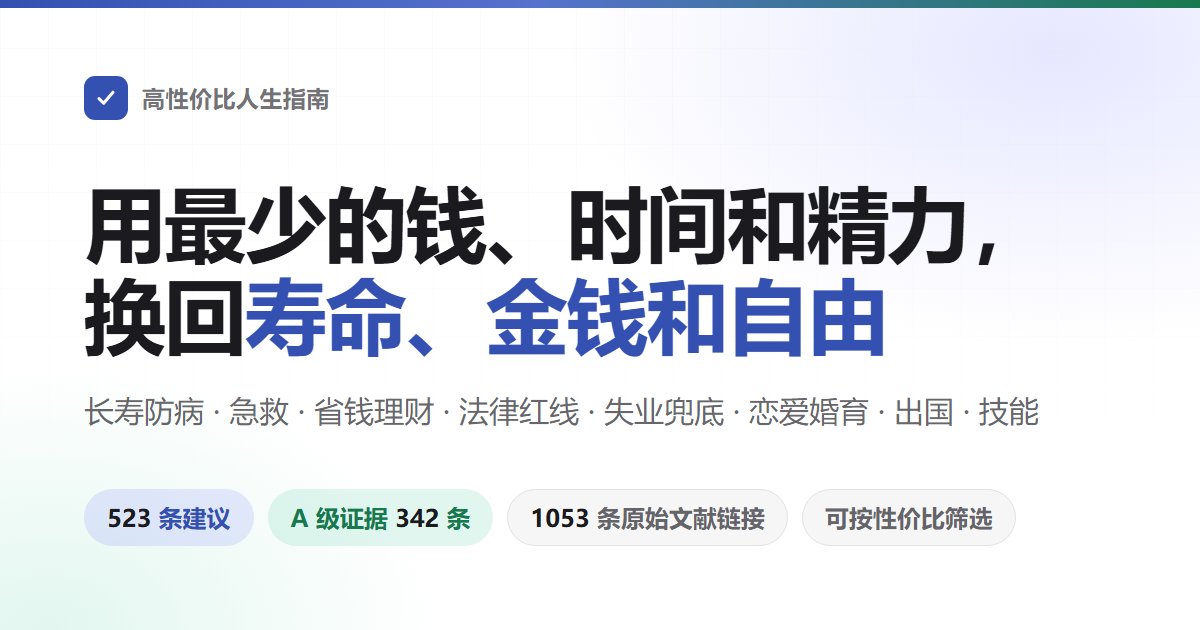
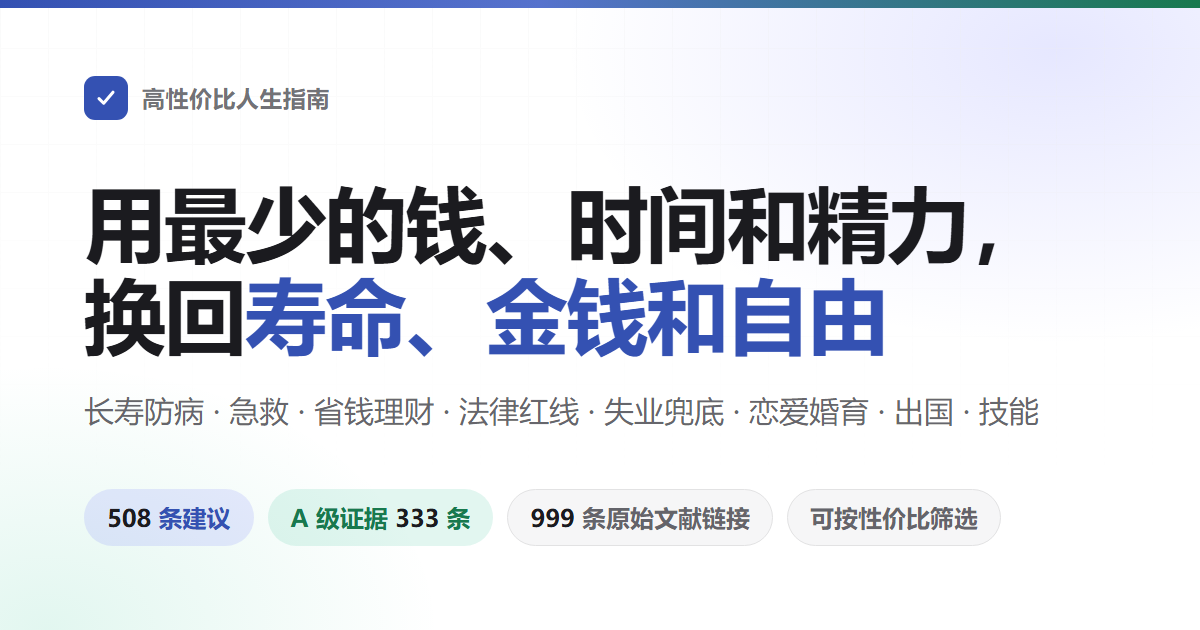
新增第 32 节「出国留学」10 条：认证院校名单、美国 2026-09-15 起固定入境期限与 30 天离境窗口、美加英澳打工时数、全日制在读与打工资格、地址报备、留学预警、OSHC、医疗附加费、留服认证时限、加强审查名单

diff --git a/index.html b/index.html
@@ -4,7 +4,7 @@
 <meta charset="utf-8">
 <meta name="viewport" content="width=device-width, initial-scale=1">
 <title>高性价比人生指南 · 用最少的钱、时间和精力换回寿命、金钱和人身自由</title>
-<meta name="description" content="按性价比排序的人生指南：498 条建议，覆盖长寿防病、意外急救、省钱理财、防骗与法律红线、失业兜底、创业风险、恋爱婚育、出国与技能。每条写明成本、收益、证据等级和原始出处，可按钱、时间、毅力三个成本维度检索。">
+<meta name="description" content="按性价比排序的人生指南：508 条建议，覆盖长寿防病、意外急救、省钱理财、防骗与法律红线、失业兜底、创业风险、恋爱婚育、出国与技能。每条写明成本、收益、证据等级和原始出处，可按钱、时间、毅力三个成本维度检索。">
 <meta name="keywords" content="长寿,健康,循证,总死亡率,省钱,理财,防骗,急救,法律常识,失业救助,劳动仲裁,创业风险,性价比">
 <meta name="author" content="高性价比人生指南">
 <meta name="robots" content="index,follow,max-image-preview:large,max-snippet:-1">
@@ -17,18 +17,18 @@
 <meta property="og:locale" content="zh_CN">
 <meta property="og:url" content="https://eternity4719.github.io/HowToLiveBetter/">
 <meta property="og:title" content="高性价比人生指南">
-<meta property="og:description" content="按性价比排序的人生指南：498 条建议，覆盖长寿防病、意外急救、省钱理财、防骗与法律红线、失业兜底、创业风险、恋爱婚育、出国与技能。每条写明成本、收益、证据等级和原始出处，可按钱、时间、毅力三个成本维度检索。">
+<meta property="og:description" content="按性价比排序的人生指南：508 条建议，覆盖长寿防病、意外急救、省钱理财、防骗与法律红线、失业兜底、创业风险、恋爱婚育、出国与技能。每条写明成本、收益、证据等级和原始出处，可按钱、时间、毅力三个成本维度检索。">
 <meta property="og:image" content="https://eternity4719.github.io/HowToLiveBetter/og.png">
 <meta property="og:image:width" content="1200">
 <meta property="og:image:height" content="630">
 <meta name="twitter:card" content="summary_large_image">
 <meta name="twitter:title" content="高性价比人生指南">
-<meta name="twitter:description" content="按性价比排序的人生指南：498 条建议，覆盖长寿防病、意外急救、省钱理财、防骗与法律红线、失业兜底、创业风险、恋爱婚育、出国与技能。每条写明成本、收益、证据等级和原始出处，可按钱、时间、毅力三个成本维度检索。">
+<meta name="twitter:description" content="按性价比排序的人生指南：508 条建议，覆盖长寿防病、意外急救、省钱理财、防骗与法律红线、失业兜底、创业风险、恋爱婚育、出国与技能。每条写明成本、收益、证据等级和原始出处，可按钱、时间、毅力三个成本维度检索。">
 <meta name="twitter:image" content="https://eternity4719.github.io/HowToLiveBetter/og.png">
 <script type="application/ld+json">
 {"@context":"https://schema.org","@graph":[
-{"@type":"WebSite","@id":"https://eternity4719.github.io/HowToLiveBetter/#website","url":"https://eternity4719.github.io/HowToLiveBetter/","name":"高性价比人生指南","description":"按性价比排序的人生指南：498 条建议，覆盖长寿防病、意外急救、省钱理财、防骗与法律红线、失业兜底、创业风险、恋爱婚育、出国与技能。每条写明成本、收益、证据等级和原始出处，可按钱、时间、毅力三个成本维度检索。","inLanguage":"zh-CN","potentialAction":{"@type":"SearchAction","target":{"@type":"EntryPoint","urlTemplate":"https://eternity4719.github.io/HowToLiveBetter/?q={search_term_string}"},"query-input":"required name=search_term_string"}},
-{"@type":"Book","@id":"https://eternity4719.github.io/HowToLiveBetter/#book","name":"高性价比人生指南","url":"https://eternity4719.github.io/HowToLiveBetter/","inLanguage":"zh-CN","bookFormat":"https://schema.org/EBook","numberOfPages":498,"license":"https://unlicense.org/","abstract":"按性价比排序的人生指南：498 条建议，覆盖长寿防病、意外急救、省钱理财、防骗与法律红线、失业兜底、创业风险、恋爱婚育、出国与技能。每条写明成本、收益、证据等级和原始出处，可按钱、时间、毅力三个成本维度检索。","about":["健康","长寿","个人理财","急救","法律常识","消费者保护"],"isAccessibleForFree":true}
+{"@type":"WebSite","@id":"https://eternity4719.github.io/HowToLiveBetter/#website","url":"https://eternity4719.github.io/HowToLiveBetter/","name":"高性价比人生指南","description":"按性价比排序的人生指南：508 条建议，覆盖长寿防病、意外急救、省钱理财、防骗与法律红线、失业兜底、创业风险、恋爱婚育、出国与技能。每条写明成本、收益、证据等级和原始出处，可按钱、时间、毅力三个成本维度检索。","inLanguage":"zh-CN","potentialAction":{"@type":"SearchAction","target":{"@type":"EntryPoint","urlTemplate":"https://eternity4719.github.io/HowToLiveBetter/?q={search_term_string}"},"query-input":"required name=search_term_string"}},
+{"@type":"Book","@id":"https://eternity4719.github.io/HowToLiveBetter/#book","name":"高性价比人生指南","url":"https://eternity4719.github.io/HowToLiveBetter/","inLanguage":"zh-CN","bookFormat":"https://schema.org/EBook","numberOfPages":508,"license":"https://unlicense.org/","abstract":"按性价比排序的人生指南：508 条建议，覆盖长寿防病、意外急救、省钱理财、防骗与法律红线、失业兜底、创业风险、恋爱婚育、出国与技能。每条写明成本、收益、证据等级和原始出处，可按钱、时间、毅力三个成本维度检索。","about":["健康","长寿","个人理财","急救","法律常识","消费者保护"],"isAccessibleForFree":true}
 ]}
 </script>
 <script>(function(){try{var s=localStorage.getItem('theme');var d=s?s==='dark':matchMedia('(prefers-color-scheme: dark)').matches;if(d)document.documentElement.classList.add('dark')}catch(e){}})();</script>
@@ -223,7 +223,7 @@ abbr.term:hover{border-bottom-color:var(--brand-1);color:var(--brand-1)}
 <noscript>
   <div style="max-width:760px;margin:0 auto;padding:32px 20px;line-height:1.7">
     <h1>高性价比人生指南</h1>
-    <p>用最少的钱、时间、精力和毅力，换回最多的寿命、金钱、时间和人身自由。全书 31 节 498 条，每条写明成本、收益、证据等级和原始出处。收益按受益人分四档算：你自己、配偶与直系亲属、朋友同事、陌生人，档次越低回报期望越小、风险越要写清。</p>
+    <p>用最少的钱、时间、精力和毅力，换回最多的寿命、金钱、时间和人身自由。全书 32 节 508 条，每条写明成本、收益、证据等级和原始出处。收益按受益人分四档算：你自己、配偶与直系亲属、朋友同事、陌生人，档次越低回报期望越小、风险越要写清。</p>
     <p>本页的筛选功能需要 JavaScript。正文可直接阅读：<a href="README.md">README.md</a> 里的目录，正文在 <a href="book/">book/</a>。</p>
     <ol>
       <li>不要早死：交通、火灾、燃气、毒蘑菇、溺水、跌落、疫苗、癌症筛查、心理危机、家庭应急装备</li>

diff --git a/tools/og.html b/tools/og.html
@@ -37,9 +37,9 @@ p{margin-top:26px;font-size:30px;white-space:nowrap;line-height:1.6;color:#3c3c4
   <h1>用最少的钱、时间和精力，<br>换回<em>寿命、金钱和自由</em></h1>
   <p>长寿防病 · 急救 · 省钱理财 · 法律红线 · 失业兜底 · 恋爱婚育 · 出国 · 技能</p>
   <div class="chips">
-    <div class="c u"><b>498</b> 条建议</div>
-    <div class="c a">A 级证据 <b>323</b> 条</div>
-    <div class="c"><b>977</b> 条原始文献链接</div>
+    <div class="c u"><b>508</b> 条建议</div>
+    <div class="c a">A 级证据 <b>333</b> 条</div>
+    <div class="c"><b>999</b> 条原始文献链接</div>
     <div class="c">可按性价比筛选</div>
   </div>
 </div>

diff --git a/book/32-出国留学.md b/book/32-出国留学.md
@@ -1,0 +1,99 @@
+[← 回总目录](../README.md)
+
+# 32. 出国留学：身份、打工、保险和回国认证
+
+口径是金钱与人身自由。这一节不讨论该不该出国，也不比较学校好坏，只写四件「不知道就要吃亏」的事：签证身份怎么才算没断、打工时数的红线在哪、保险和费用是强制的哪几笔、回国之后这张文凭能不能被认。
+
+覆盖美国、加拿大、英国、澳大利亚四国，数字逐国列出，来源是各国移民局和中国教育部的官方页面。**各国留学政策改得比中国法规勤，本节所有数字的截至日期是 2026 年 9 月，出发前和每次续签前都要照来源栏的链接自查一遍。**
+
+人在境外出了事怎么找使领馆、12308 能管什么、境外医疗和转运保险怎么买，见第 21 节；读书还是打工那道账见第 23 节；账号被盗和电信诈骗见第 14、8 节，都不重复。
+
+### 1. 交学费之前先查学校在不在留服中心的认证院校名单里
+<!-- 成本标签: 钱=0 时间=少 毅力=否 收益=大 口径=金钱 -->
+- 成本：0 元；在留服中心「认证院校查询」里输一次学校名，几分钟
+- 说人话：回国要用这张文凭考公、进国企、落户、评职称，就得先过教育部留学服务中心的学历学位认证。学校不在可认证范围里，几十万学费和一到两年时间换回来的东西，在国内用不上。查是免费的，查完再交钱。
+- 收益：中国（教育部）留学服务中心设有认证院校查询入口，可按国家和学校名检索该校所发学历学位是否在认证范围内；教育部教育涉外监管信息网同时公布中外合作办学和境外办学的监管信息
+- 证据等级：A
+- 来源：中国（教育部）留学服务中心. 认证院校查询. <http://yxcx.cscse.edu.cn/>；教育部教育涉外监管信息网. <https://jsj.moe.gov.cn/>
+- 备注：中介说「教育部认可」不算数，以查询结果为准。名单会变，入学时在名单里不等于毕业时还在，中途每年复查一次。中外合作办学项目另有认证注册制度，2008 年以后入学的可凭姓名和身份证号在涉外监管信息网查注册序号。
+
+### 2. 美国 2026 年 9 月 15 日起改了规矩：F-1 不再是「读完为止」，最长四年，读完 30 天内走
+<!-- 成本标签: 钱=0 时间=少 毅力=否 收益=大 口径=自由 -->
+- 成本：0 元；把 I-20 上的项目结束日期和 I-94 上的入境期限抄进日历，各提前 90 天提醒一次
+- 说人话：以前 F-1 按「读多久算多久」入境，现在改成给一个写死的期限、最长四年，到期要另外申请延期。读完或者提前结束学业的，只有 30 天可以留着准备走人或者转成别的合法身份，不是流传的 60 天。日期一过，人就是非法滞留。
+- 收益：8 CFR 214.2(f) 规定，完成学业和已获批实习的 F-1 学生，自项目结束日期、四年最长入境期限或 OPT/STEM OPT 工作许可结束日期起，另有 30 天用于准备离境或依法转换身份；提前结束学业或培训的，自结束之日起 30 天内必须离境或另求合法身份。该固定期限规则由国土安全部 2026 年 7 月 17 日公布，2026 年 9 月 15 日生效
+- 证据等级：A
+- 来源：8 CFR 214.2(f)（现行版本）. <https://www.ecfr.gov/current/title-8/chapter-I/subchapter-B/part-214/section-214.2>；DHS (2026). Establishing a Fixed Time Period of Admission and an Extension of Stay Procedure for Nonimmigrant Academic Students, Exchange Visitors（2026-07-17 公布，2026-09-15 生效）. <https://www.federalregister.gov/documents/2026/07/17/2026-14439/establishing-a-fixed-time-period-of-admission-and-an-extension-of-stay-procedure-for-nonimmigrant>
+- 备注：这条 2026 年 9 月 15 日刚生效，网上和中介手里大量「60 天宽限期」「duration of status 读到毕业」的说法都是旧的。延期要在期限届满前按 (f)(7) 另行申请，不是自动续。J 签证同一份规则一起改，细节不同，按自己签证类别查原文。
+
+### 3. 打工时数是四国都写死的红线，超一小时就是违反签证条件
+<!-- 成本标签: 钱=0 时间=少 毅力=些 收益=大 口径=自由 -->
+- 成本：0 元；按周记工时，别信雇主「多干几个小时没人查」
+- 说人话：四个国家都给学生签证的打工时间设了上限，超了就是违反签证条件，可能被取消签证、遣返，以后再申请也会被追问。上限是按周或按两周算的，打两份工要合起来算。
+- 收益：美国 F-1 校内打工在学期中每周不得超过 20 小时，经批准的校外兼职同样限每周 20 小时，假期可全职（8 CFR 214.2(f)(9)）；英国学生签证读学位及以上课程学期内每周 20 小时、学位以下 10 小时、非全日制课程一律不得打工，且不得自雇、不得从事职业运动员或演艺工作（移民规则附录 Student ST26.1、ST26.5）；加拿大符合条件的全日制学生校外打工每周最多 24 小时（IRPR 第 186(v) 条）；澳大利亚学生签证课程进行期间每两周最多 48 小时，研究型硕士和博士及其家属不受此限
+- 证据等级：A
+- 来源：8 CFR 214.2(f)(9). <https://www.ecfr.gov/current/title-8/chapter-I/subchapter-B/part-214/section-214.2>；UK Home Office. Immigration Rules Appendix Student（ST26.1、ST26.5）. <https://www.gov.uk/guidance/immigration-rules/immigration-rules-appendix-student>；IRCC. Work off campus as an international student. <https://www.canada.ca/en/immigration-refugees-citizenship/services/study-canada/work/work-off-campus.html>；Australian Government Department of Home Affairs. Student visa (subclass 500). <https://immi.homeaffairs.gov.au/visas/getting-a-visa/visa-listing/student-500>
+- 备注：美国的校外打工必须先获批，I-765 还在审就不能开工。加拿大旧许可上印的是每周 20 小时的，只要仍符合条件，实际可做到 24 小时，以现行规定为准。英国那条禁自雇的范围很宽，接私活、开网店、做自由职业都算。
+
+### 4. 身份的根是「全日制在读」：休学、退学、转学空档期一律不能打工
+<!-- 成本标签: 钱=0 时间=少 毅力=否 收益=大 口径=自由 -->
+- 成本：0 元；停课、休学、换学校之前先找学校的国际学生办公室确认身份状态
+- 说人话：打工资格是挂在「你正在全日制上学」这件事上的。一旦休学、退学、被开除，或者转学期间没在上课，打工资格当场消失，接着干就是非法打工。很多人以为签证没到期就没事，其实身份早断了。
+- 收益：加拿大明文规定，在获批休学期间，或转学期间没有在学习的，不得校外打工，只有恢复学业后才能重新开始工作；美国的校内打工资格以 SEVIS 中身份为 Active 的 F-1 学生为限，且须维持全日制课业；英国的打工许可按课程类型授予，非全日制课程不得打工
+- 证据等级：A
+- 来源：IRCC. Work off campus as an international student. <https://www.canada.ca/en/immigration-refugees-citizenship/services/study-canada/work/work-off-campus.html>；U.S. Department of Homeland Security, Study in the States. Working in the United States. <https://studyinthestates.dhs.gov/students/work/working-in-the-united-states>；UK Home Office. Immigration Rules Appendix Student（ST26.1）. <https://www.gov.uk/guidance/immigration-rules/immigration-rules-appendix-student>
+- 备注：课业压力大想减课之前，先问清楚减到多少就不算全日制了，这条比打工更早出事。被学校开除或者项目终止的，身份通常当天就断，别等学校发正式信再行动。
+
+### 5. 美国：搬家后 10 天内必须报新地址
+<!-- 成本标签: 钱=0 时间=少 毅力=否 收益=中 口径=自由 -->
+- 成本：0 元；在线提交一次改址，十分钟
+- 说人话：在美国换了住址，法律要求 10 天之内通知移民局。不报不是小事，它既是违法，也会让移民局寄给你的信寄丢，而很多信是有回复期限的，错过就按你放弃处理。
+- 收益：8 CFR 265.1 规定，依法负有登记义务的外国人，应当在地址变更后 10 日内按 USCIS 的要求报告地址变更和新地址
+- 证据等级：A
+- 来源：8 CFR 265.1. <https://www.ecfr.gov/current/title-8/chapter-I/subchapter-B/part-265/section-265.1>；USCIS. AR-11, Alien's Change of Address Card. <https://www.uscis.gov/ar-11>
+- 备注：报给移民局和报给学校是两回事，学校的 SEVIS 记录要另外更新。其余三国也都要求地址变更后通知移民局或学校，期限和方式各国不同，按本国移民局页面办。
+
+### 6. 出发前和在读期间，看一眼教育部的留学预警
+<!-- 成本标签: 钱=0 时间=少 毅力=否 收益=中 口径=自由 -->
+- 成本：0 元；出发前看一次，之后每学期看一次
+- 说人话：教育部会对某个国家或地区专门发预警，说明那里近期治安、政策对中国留学生不利。这是官方公开发布的、白纸黑字能查到的风险提示，比中介的说法可靠，看一眼不花钱。
+- 收益：教育部通过教育涉外监管信息网发布留学预警。2025 年共发布 4 号：第 1 号提示美国有关州通过的高等教育法案含涉华消极条款（2025-04-09），第 2、3 号两次提示菲律宾针对中国公民的案件多发、留学环境不佳（2025-07-18、2025-08-30），第 4 号提示日本治安形势和留学环境不佳、建议谨慎规划赴日留学（2025-11-16）
+- 证据等级：A
+- 来源：教育部教育涉外监管信息网. 预警信息. <https://jsj.moe.gov.cn/>；教育部发布 2025 年第 4 号留学预警. <https://jsj.moe.gov.cn/n2/2/2/2060.shtml>；第 1 号. <https://jsj.moe.gov.cn/n2/2/2/2001.shtml>
+- 备注：预警不是禁令，也不代表不能去，它给的是「做风险评估」这个动作的官方依据。预警名单随形势变，本节不长期维护，以网站当期页面为准。境外人身安全和领事保护见第 21 节。
+
+### 7. 澳大利亚：OSHC 必须覆盖全程且中间不能断，落地拿不出保险可能被拒绝入境
+<!-- 成本标签: 钱=多 时间=少 毅力=否 收益=中 口径=金钱 -->
+- 成本：按签证时长一次性买，读几年买几年；数千到上万元人民币
+- 说人话：澳大利亚把留学生医疗保险写成签证条件，不是可选项。保险要盖住整个停留期，续签换保单之间不能有空档，入境时拿不出保险证明可能当场被拒绝入境。到了以后家里人来陪读，每个人都要单独有。
+- 收益：澳大利亚内政部规定，学生签证申请人及其家属须持有并在澳停留全程维持澳大利亚认可保险机构提供的海外学生医疗保险（OSHC），除非符合豁免情形；与前一签证的保险之间不得有空档；入境时无法证明已投保的，可能被拒绝入境；先于课程开始入境的，保险起始日须为实际抵澳之日
+- 证据等级：A
+- 来源：Australian Government Department of Home Affairs. Student visa (subclass 500). <https://immi.homeaffairs.gov.au/visas/getting-a-visa/visa-listing/student-500>
+- 备注：学校代办的要问清保险公司名称、保单起止日期和保单号，签证申请里要填。买短了会导致续签出问题，宁可买到毕业后再多留一点。
+
+### 8. 英国：签证费之外还有一笔按年收的医疗附加费，学生每年 776 英镑，申请时一次付清
+<!-- 成本标签: 钱=多 时间=少 毅力=否 收益=中 口径=金钱 -->
+- 成本：签证费 558 英镑，医疗附加费每年 776 英镑，申请时一次交清
+- 说人话：英国的钱不止签证费，还要按签证年数一次性预交医疗附加费，交了才能用国民医疗服务。两年的签证就是一次交 1552 英镑，加上签证费，出发前这一笔按当前汇率是一万几千元人民币，做预算时别漏。
+- 收益：英国学生签证在境外申请和在境内延期或转换的费用均为 558 英镑；医疗附加费学生本人及其家属为每年 776 英镑，例如 2 年签证为 1552 英镑，其他类别申请人为每年 1035 英镑；签证超过 6 个月不足 1 年的按整年收取
+- 证据等级：A
+- 来源：UK Government. Student visa. <https://www.gov.uk/student-visa>；UK Government. Pay for UK healthcare as part of your immigration application. <https://www.gov.uk/healthcare-immigration-application>
+- 备注：金额和汇率都会变，按上面两个页面当期数字算。读学位课程且年满 18 岁的，通常最长可停留 5 年，学位以下 2 年，按这个年数估附加费。
+
+### 9. 回国前留出认证时间：留服认证要 10 到 20 个工作日
+<!-- 成本标签: 钱=少 时间=中 毅力=否 收益=中 口径=时间 -->
+- 成本：线上申请缴费；材料准备加审核，按工作日算要一个月上下
+- 说人话：国外学历回国要用，得先做学历学位认证。认证本身的审核期是 10 到 20 个工作日，赶上求职季或者材料被退回还要更久。秋招、考公报名、落户都有截止日期，别等要用了才开始办。
+- 收益：中国（教育部）留学服务中心网上服务大厅办理国（境）外学历学位认证，流程为注册实名认证、在线提交申请与材料、在线缴费、评估与审核，公布的认证工作时限为 10 至 20 个工作日
+- 证据等级：A
+- 来源：中国（教育部）留学服务中心. 网上服务大厅·学历学位认证. <http://zwfw.cscse.edu.cn/>
+- 备注：材料含文凭证书、护照或通行证、居留卡或签证签注、证件照片和授权声明，出国期间的出入境记录系统自取，所以在外期间的签证页别丢。认证书失效处置、暂停受理某校认证申请这类公告也在留服中心网站发布，办之前先看一眼有没有涉及自己的学校。
+
+### 10. 认证被「加强审查」的学校每年都在加，花钱买文凭这条路已经走不通
+<!-- 成本标签: 钱=0 时间=少 毅力=否 收益=中 口径=金钱 -->
+- 成本：0 元；报名前在留服中心通知公告里搜一次学校名
+- 说人话：留服中心会点名一批国外院校，对它们的学历认证单独加强审查，也会暂停受理个别学校的认证申请。这些学校往往就是宣传里「免语言、免出境、几个月拿硕士」的那种。报名前搜一次学校名，比事后申诉省事得多。
+- 收益：中国（教育部）留学服务中心持续发布对部分国外院校学历学位认证加强认证审查的公告，最新一份为第九号（2025-10-28）；另发布过暂停受理个别境外院校认证申请的公告，以及关于借国（境）外学历学位认证实施诈骗的提示
+- 证据等级：A
+- 来源：中国（教育部）留学服务中心. 关于对部分国外院校学历学位认证加强认证审查的公告（九）（2025-10-28）. <https://www.cscse.edu.cn/cscse/sy/tzgg/2025102809225023345/index.html>；中国（教育部）留学服务中心. <https://www.cscse.edu.cn/>
+- 备注：「加强审查」不等于一定认证不了，但会要求补交更多材料、时间更长。凡是承诺「包认证」「内部渠道加急」的中介都是骗局，留服中心专门发过防诈骗提示。跨境找人代写论文、代上网课被查到，学历作废之外还可能影响签证记录。

diff --git a/docs/核实记录/32-出国留学.md b/docs/核实记录/32-出国留学.md
@@ -1,0 +1,110 @@
+# 第 32 节 出国留学：身份、打工、保险和回国认证 · 核实记录（2026-09-18）
+
+任务来源：仓库 issue #8 读者问「有没有给常见留学国家留学生的建议，比如美国、加拿大、英国、澳大利亚，身为留学生有什么权益、如何维护」。
+
+原有覆盖：第 21 节写的是出国与境外安全（外交部安全提醒、12308、领事保护边界、境外医疗与转运保险、境外高薪招聘陷阱），不含留学生身份与学业。第 23 节写学历回报，不含境外学历认证。所以新开一节，不与两节重复，正文里做了互相指路。
+
+落点：新增 `book/32-出国留学.md`，10 条。覆盖国家按读者提问限定为美国、加拿大、英国、澳大利亚，逐国写数字。**本节所有外国政策数字标注截至 2026 年 9 月，正文和节首都写明要读者按来源链接自查，不长期维护。**
+
+取源工具：本机 curl 段错误、`Invoke-WebRequest` 对 canada.ca 与 cscse.edu.cn 超时或断连，改用无头 Chrome `--dump-dom` 取渲染后 DOM（jsj.moe.gov.cn 与 immi.homeaffairs.gov.au 是前端渲染，必须走这条路）。全节 17 条外链在 2026-09-18 逐条跑过可达性，除 canada.ca 外均返回 200；canada.ca 本机 PowerShell 取不到但无头 Chrome 可取全文，内容已逐字核对。
+
+## 第 1 条（认证院校名单）
+
+| URL | 复核 | 依据 |
+|---|---|---|
+| <http://yxcx.cscse.edu.cn/>（留服中心「认证院校查询」入口，从 cscse.edu.cn 首页锚点取得） | 是 | 页面为按国家和院校名检索的查询入口 |
+| <https://jsj.moe.gov.cn/>（教育部教育涉外监管信息网首页） | 是 | 栏目含文件政策、预警信息、合作办学 |
+| <http://rzzccx.crs.jsj.edu.cn/>（中外合作办学证书认证注册信息查询） | 是 | 「自 2008 年入学就读的学生，可凭本人姓名、身份证号码查询境外学历学位证书认证注册序号」 |
+
+定级 A：查询入口和制度安排均可在官方页面逐字核对。收益量级「大」——金钱口径按万元级定档，学费与一到两年时间的量级远超万元。备注里「名单会变、每年复查」是操作建议，非文件原文。
+
+## 第 2 条（美国固定入境期限与 30 天离境窗口）
+
+| URL | 复核 | 原文要点 |
+|---|---|---|
+| <https://www.ecfr.gov/current/title-8/chapter-I/subchapter-B/part-214/section-214.2>（eCFR 现行文本 8 CFR 214.2(f)） | 是 | 完成学业与已获批实习的 F-1，自项目结束日期、四年最长入境期限或 OPT/STEM OPT 许可结束日起「an additional 30-day period」用于准备离境或另求合法身份；提前结束学业或培训的，自结束之日起 30 日内离境或另求合法身份 |
+| <https://www.federalregister.gov/documents/2026/07/17/2026-14439/establishing-a-fixed-time-period-of-admission-and-an-extension-of-stay-procedure-for-nonimmigrant>（联邦公报最终规则） | 是 | publication_date 2026-07-17，effective_on 2026-09-15（经 federalregister.gov API 取字段核对） |
+
+定级 A：条文与生效日期均可逐字核对。**这条是本节最要紧的更新**：eCFR 现行文本写的是 30 天，网上通行的「60 天宽限期」与「duration of status 读到毕业」均为旧制，2026-09-15 起已被固定期限规则取代，距本次写作仅三天。收益量级「大」——自由口径，后果是非法滞留与遣返，按「避免刑责 大」一档类推。延期程序在 (f)(7)，正文只指路未展开。
+
+## 第 3 条（四国打工时数）
+
+| URL | 复核 | 原文要点 |
+|---|---|---|
+| <https://www.ecfr.gov/current/title-8/chapter-I/subchapter-B/part-214/section-214.2>（8 CFR 214.2(f)(9)） | 是 | 校内就业「must not exceed 20 hours a week while school is in session」；经批准的校外兼职「limited to no more than 20 hours a week when school is in session」，假期可全职 |
+| <https://www.gov.uk/guidance/immigration-rules/immigration-rules-appendix-student>（移民规则附录 Student，ST26.1 表） | 是 | 学位及以上且保荐方合规：学期内每周 20 小时；学位以下：10 小时；其余含全部非全日制：不得就业。ST26.5 另禁自雇、职业运动员与教练、演艺 |
+| <https://www.canada.ca/en/immigration-refugees-citizenship/services/study-canada/work/work-off-campus.html>（IRCC） | 是 | 「You can work up to 24 hours per week」；旧许可印 20 小时的，符合条件仍可做到 24 小时；依据为 IRPR 第 186(v) 条 |
+| <https://immi.homeaffairs.gov.au/visas/getting-a-visa/visa-listing/student-500>（内政部 Student visa 500） | 是 | 「work up to 48 hours a fortnight when your course of study or training is in session」，研究型硕士与博士及家属无工时上限 |
+
+定级 A：四国均为移民主管部门现行页面或成文规则，数字逐字可核。收益量级「大」——自由口径，超时属违反签证条件，可致签证取消与遣返。
+
+## 第 4 条（全日制在读是打工资格的根）
+
+| URL | 复核 | 原文要点 |
+|---|---|---|
+| <https://www.canada.ca/en/immigration-refugees-citizenship/services/study-canada/work/work-off-campus.html> | 是 | 获批休学期间，或转学期间未在学习的，不得校外打工，恢复学业后方可复工 |
+| <https://studyinthestates.dhs.gov/students/work/working-in-the-united-states>（DHS Study in the States） | 是 | 校内就业以 SEVIS 中状态为 Active 的 F-1 学生为限；校外就业须先获批，I-765 审理期间不得开工 |
+| <https://www.gov.uk/guidance/immigration-rules/immigration-rules-appendix-student>（ST26.1） | 是 | 打工许可按课程类型授予，非全日制课程不得就业 |
+
+定级 A。加拿大页面表述最明确，美英两国以各自规则佐证。收益量级「大」，理由同第 3 条。
+
+## 第 5 条（美国地址变更 10 日内报备）
+
+| URL | 复核 | 原文要点 |
+|---|---|---|
+| <https://www.ecfr.gov/current/title-8/chapter-I/subchapter-B/part-265/section-265.1> | 是 | 负有登记义务者须「within 10 days of such change」按 USCIS 要求报告地址变更与新地址 |
+| <https://www.uscis.gov/ar-11> | 是 | AR-11 表格页，说明须尽快通知地址变更以免错收文书 |
+
+定级 A：10 日期限为条文明文。收益量级「中」——自由口径按「避免行政处罚」一档，且错收文书的实际后果多为程序性不利，未到刑责一级。
+
+## 第 6 条（教育部留学预警）
+
+| URL | 复核 | 原文要点 |
+|---|---|---|
+| <https://jsj.moe.gov.cn/n2/2/2/2001.shtml> | 是 | 2025 年第 1 号（2025-04-09），美国有关州高等教育法案含涉华消极条款 |
+| <https://jsj.moe.gov.cn/n2/2/2/2030.shtml> | 是 | 第 2 号（2025-07-18），菲律宾治安不靖、针对中国公民犯罪多发 |
+| <https://jsj.moe.gov.cn/n2/2/2/2035.shtml> | 是 | 第 3 号（2025-08-30），再次提示菲律宾 |
+| <https://jsj.moe.gov.cn/n2/2/2/2060.shtml> | 是 | 第 4 号（2025-11-16），日本治安形势与留学环境不佳，建议谨慎规划赴日留学 |
+
+定级 A：四份预警的编号、日期、指向国家均逐条核对。正文来源栏只列第 4 号与第 1 号加栏目首页，避免来源行过长。收益量级「中」——预警是风险提示不是禁令，不直接对应可量化后果。**预警名单随形势变动，本节按 CLAUDE.md 第 21 节同一惯例，不长期维护。**
+
+## 第 7 条（澳大利亚 OSHC）
+
+| URL | 复核 | 原文要点 |
+|---|---|---|
+| <https://immi.homeaffairs.gov.au/visas/getting-a-visa/visa-listing/student-500> | 是 | 须持有并全程维持 OSHC，除非属豁免情形；与前一签证的保险之间不得有空档；入境时无法证明已投保者可能被拒绝入境；先于课程开始入境的，保险起始日为抵澳之日 |
+
+定级 A。收益量级「中」——金钱口径，保费为数千到上万元级，属「数百到数千」与万元级交界，取中。成本标签钱=多（按签证年限一次性支出）。
+
+## 第 8 条（英国签证费与医疗附加费）
+
+| URL | 复核 | 原文要点 |
+|---|---|---|
+| <https://www.gov.uk/student-visa> | 是 | 境外申请与境内延期或转换均为 £558；年满 18 岁读学位及以上通常最长停留 5 年，学位以下 2 年 |
+| <https://www.gov.uk/healthcare-immigration-application> | 是 | 学生及其家属每年 £776（2 年签证即 £1,552），其他申请人每年 £1,035；超过 6 个月不足 1 年按整年收取 |
+
+定级 A：金额逐字取自 gov.uk 当期页面。收益量级「中」——金钱口径，两项合计为数千元人民币量级。正文未换算人民币具体数额，只写「按当前汇率一万几千元」的量级，避免汇率变动导致数字失效。
+
+## 第 9 条（留服认证时限）
+
+| URL | 复核 | 原文要点 |
+|---|---|---|
+| <http://zwfw.cscse.edu.cn/>（留服中心网上服务大厅） | 是 | 学历学位认证流程为注册实名认证、提交申请与材料、在线缴费、评估与审核；「认证工作时限 10-20 个工作日」；申请材料含文凭证书、护照或通行证、居留卡或签证签注、证件照片、授权声明；出入境记录由系统取 |
+
+定级 A：时限与材料清单为页面明示。收益量级「中」、口径时间——节省的是错过截止日期的风险，不是每天的时间，按「一次性」本应定小，但错过秋招或考公报名的后果按窗口期计，取中；此处为判断，非机械套阈值，依 CLAUDE.md 要求在此写明。
+
+## 第 10 条（加强认证审查名单）
+
+| URL | 复核 | 原文要点 |
+|---|---|---|
+| <https://www.cscse.edu.cn/cscse/sy/tzgg/2025102809225023345/index.html> | 是 | 《关于对部分国外院校学历学位认证加强认证审查的公告（九）》，2025-10-28 发布 |
+| <https://www.cscse.edu.cn/> | 是 | 通知公告栏同时列有「关于谨防借国（境）外学历学位认证实施诈骗的重要提示」「关于对部分国（境）外学历学位认证书失效处置的公告」「关于暂停泰国彭世洛大学学历学位认证申请的公告」 |
+
+定级 A：公告标题、期号与日期可逐字核对。收益量级「中」——金钱口径，后果是认证受阻或延迟，未必全额损失学费，故不取大。正文未点名任何具体院校（除引用公告标题中已公开的一所），避免名单变动后失准。
+
+## 本节没写的
+
+- 各国的税务申报义务（如美国 F-1 无收入也需报送表格）本轮未取得可逐字核对的官方页面，未写入。
+- 加拿大、英国、澳大利亚的地址变更报备期限各不相同，未逐国取原文，第 5 条只写美国并在备注里提示其余三国另按本国规定办。
+- 学生签证被拒或身份失效后的补救程序（美国的 reinstatement 等）未写，属专门程序，超出本节「不知道就吃亏」的定位。
+- 日本、新西兰、新加坡等其他留学目的国不在读者提问范围内，未纳入。

diff --git a/README.md b/README.md
@@ -5,12 +5,12 @@
 # 高性价比人生指南
 
 覆盖长寿与防病、意外与急救、省钱与理财、防骗与法律红线、失业兜底、创业风险、做平台与合规、恋爱婚育、出国与技能。<br>
-498 条建议，每条写明花掉什么、换回什么、证据有多硬，来源只引期刊论文和官方文件。
+508 条建议，每条写明花掉什么、换回什么、证据有多硬，来源只引期刊论文和官方文件。
 
 [![在线检索](https://img.shields.io/badge/%E5%9C%A8%E7%BA%BF%E6%A3%80%E7%B4%A2-%E7%82%B9%E8%BF%99%E9%87%8C%E6%89%93%E5%BC%80-3451b2?style=flat-square)](https://eternity4719.github.io/HowToLiveBetter/)
-[![条目](https://img.shields.io/badge/%E6%9D%A1%E7%9B%AE-498%20%E6%9D%A1-18794e?style=flat-square)](#目录)
-[![证据分级](https://img.shields.io/badge/%E8%AF%81%E6%8D%AE%E5%88%86%E7%BA%A7-A%20323%20%C2%B7%20B%20126%20%C2%B7%20C%2049-915930?style=flat-square)](#证据分级)
-[![原始文献](https://img.shields.io/badge/%E5%8E%9F%E5%A7%8B%E6%96%87%E7%8C%AE-891%20%E6%9D%A1%E9%93%BE%E6%8E%A5-565a5f?style=flat-square)](docs/核实记录/)
+[![条目](https://img.shields.io/badge/%E6%9D%A1%E7%9B%AE-508%20%E6%9D%A1-18794e?style=flat-square)](#目录)
+[![证据分级](https://img.shields.io/badge/%E8%AF%81%E6%8D%AE%E5%88%86%E7%BA%A7-A%20333%20%C2%B7%20B%20126%20%C2%B7%20C%2049-915930?style=flat-square)](#证据分级)
+[![原始文献](https://img.shields.io/badge/%E5%8E%9F%E5%A7%8B%E6%96%87%E7%8C%AE-999%20%E6%9D%A1%E9%93%BE%E6%8E%A5-565a5f?style=flat-square)](docs/核实记录/)
 [![许可](https://img.shields.io/badge/%E8%AE%B8%E5%8F%AF-Unlicense-565a5f?style=flat-square)](LICENSE)
 
 **[打开在线检索页](https://eternity4719.github.io/HowToLiveBetter/)** · [目录](#目录) · [术语表](#读懂数字术语表) · [核实记录](docs/核实记录/) · [结婚划不划算（长文）](docs/结婚划不划算.md) · [家庭应急装备清单（长文）](docs/家庭应急装备清单.md) · [遇到陌生人出事该不该停（长文）](docs/遇到陌生人出事该不该停.md) · [做平台要办哪些证（长文）](docs/做平台要办哪些证.md)
@@ -56,13 +56,14 @@
 | 亲人走了、被裁了、拿到重病诊断，头几个月最要紧的是什么？ | [29. 遭遇重大打击之后](book/29-遭遇重大打击之后.md) |
 | 孩子上学以后，哪些身体和心理的事不能等到考完再说？ | [30. 上学以后的孩子](book/30-上学以后的孩子.md) |
 | 十八岁之后除了读书和打工还有哪几条路，各自的门槛是什么？ | [31. 十八岁之后有哪几条路](book/31-十八岁之后有哪几条路.md) |
+| 出国留学，签证身份怎么才算没断，回国这张文凭认不认？ | [32. 出国留学：身份、打工、保险和回国认证](book/32-出国留学.md) |
 
 ## 怎么读
 
 - **想按条件筛**：打开[在线检索页](https://eternity4719.github.io/HowToLiveBetter/)，可以按关键词、章节、证据等级，以及「花不花钱、花多少时间、要不要毅力」三个成本维度组合筛选。数据直接读 book/ 下的正文，改正文即改检索页。
 - **想按顺序读**：每节内的条目按性价比从高到低排列，从每节前几条开始看就行。
 - **看不懂那串数字**：每条都有一行「说人话」，把「收益」栏里的风险比、置信区间翻成「同期死亡的概率低约两成」「拘留几日、罚多少钱」这类日常说法，只用原文已有的事实，不引入新数字。只看这一行就够做决定；「收益」栏保留全部原始数字和置信区间，供你自己核。
-- **只想看结论最硬的**：在检索页里勾选证据等级 A，只留下有具体数字、来自荟萃分析或大型试验的 323 条。
+- **只想看结论最硬的**：在检索页里勾选证据等级 A，只留下有具体数字、来自荟萃分析或大型试验的 333 条。
 - **只想看最值得做的**：勾选性价比「极高」，得到 85 条既不花钱、不花时间、不需要毅力，收益又落在最大一档的条目。再叠加一个「换回什么」，就是该口径下的优先清单。
 - **看到「不要」开头的节标题不用紧张**：节标题说的是这一节想防住的结果（不要早死、不要浪费时间），不是说底下每条都是禁令。条目标题才是要做的动作，一律动词开头，自己带着「做什么」或「别做什么」——同一节里两种都有，比如第 4 节既有「把『打算做』写成『几点、在哪、遇到什么就做什么』」，也有「不看电视和滚动新闻」。按条目标题读，不用往节标题的语气上套。
 
@@ -105,7 +106,7 @@
 | B | 有研究支撑但难以量化，或证据来自小样本/单一研究 |
 | C | 作者经验或普遍共识，没有直接文献 |
 
-全书 498 条中 A 级 323 条、B 级 126 条、C 级 49 条，另有 45 条标注了争议、39 处标注了 TODO 待核实。有争议的 A/B 级条目会标注「争议」并列出反方证据。所有来源只引原始文献（期刊论文附 DOI 或 PubMed 链接，或 WHO/CDC/国家统计局等官方机构报告），不引二手转述。不确定的数字标「待核实」。
+全书 508 条中 A 级 333 条、B 级 126 条、C 级 49 条，另有 45 条标注了争议、39 处标注了 TODO 待核实。有争议的 A/B 级条目会标注「争议」并列出反方证据。所有来源只引原始文献（期刊论文附 DOI 或 PubMed 链接，或 WHO/CDC/国家统计局等官方机构报告），不引二手转述。不确定的数字标「待核实」。
 
 ## 性价比档
 
@@ -117,7 +118,7 @@
 | 收益量级 | 大 / 中 / 小 | 尽量按阈值从条目自己的「收益」栏里机械套：换寿命看相对降幅（≥20% 为大，10–20% 为中，<10% 或只有替代终点为小）；换钱看金额（万元级为大，数百到数千为中，几十元为小）；换人身自由看后果（避免刑事责任为大，避免拘留或行政处罚为中，避免民事纠纷为小）；换时间精力看节省量（每天小时级为大，每周小时级为中，一次性为小） |
 | 性价比 | 极高 / 高 / 一般 | 收益大且三项成本全为零 = 极高；收益大且成本较低，或收益中且成本为零 = 高；其余 = 一般 |
 
-全书 498 条中性价比极高 88 条（18%）、高 248 条（50%）、一般 162 条（33%）。中间一档偏厚是有意的：底层的收益量级只有三级判断，再往下切就是假装精度。
+全书 508 条中性价比极高 91 条（18%）、高 252 条（50%）、一般 165 条（32%）。中间一档偏厚是有意的：底层的收益量级只有三级判断，再往下切就是假装精度。
 
 **这一档是作者判断，不是证据**，本质上是 C 级，和证据等级正交。可以是 A 级但性价比一般（带状疱疹疫苗有 97.2% 效力的三期 RCT，但两针三四千元、带状疱疹很少致命），也可以是 C 级但性价比极高（出境前把行程发给家人）。「一般」不等于不该做——全书的条目都是建议做的，只是这一档要你自己权衡那笔花销。
 
@@ -206,6 +207,7 @@
 29. [遭遇重大打击之后](book/29-遭遇重大打击之后.md)：丧亲头一个月的心血管窗口、重病诊断的第一周、失业、丧偶后的半年、因自杀丧亲、家长去世的孩子、哀伤卡住了去哪挂号、离婚、12356 与 12355、别在应激期做不可逆的决定。口径：总死亡率，末两条为金钱。
 30. [上学以后的孩子](book/30-上学以后的孩子.md)：按小时算的急症、别为了考试推迟治疗、被欺凌怎么办、每天户外 2 小时、学生体检报告单、青少年抑郁筛查、治愈近视的产品、睡眠与作业的硬规定、休学保留学籍、散瞳验光与复查、窝沟封闭。口径：死亡率与健康终点，另有金钱和时间各一到两条。
 31. [十八岁之后有哪几条路](book/31-十八岁之后有哪几条路.md)：八条路的法定门槛；当兵（兵役登记、义务兵两年、拒服兵役的联合惩戒、学费补偿与升学、安置与 30 日报到、退役金与工龄税收）；基层服务项目的定向考录；特岗教师期满入编；消防员与军队文职；自考、成人高考与开放大学；灵活就业的社保；骑手的职业伤害保障。口径：金钱/时间，拒服兵役那条兼及人身自由。
+32. [出国留学：身份、打工、保险和回国认证](book/32-出国留学.md)：交学费前查认证院校名单；美国 2026 年 9 月起的固定入境期限与 30 天离境窗口；美加英澳四国的打工时数上限；全日制在读是身份的根；搬家 10 日内报备；教育部留学预警；澳大利亚 OSHC 不能断；英国医疗附加费；留服认证的 10 到 20 个工作日；被加强审查的院校名单。口径：金钱/人身自由。
 
 每节内条目按性价比从高到低排列。「不要早死」「不要浪费时间」这类节标题说的是这一节想防住的结果，条目本身要做还是别做，以条目标题为准。长文另见 [docs/家庭应急装备清单.md](docs/家庭应急装备清单.md)、[docs/做平台要办哪些证.md](docs/做平台要办哪些证.md)、[docs/结婚划不划算.md](docs/结婚划不划算.md) 和 [docs/遇到陌生人出事该不该停.md](docs/遇到陌生人出事该不该停.md)。每条来源的核实过程记录在 [docs/核实记录](docs/核实记录/)。
 
@@ -213,7 +215,7 @@
 
 ## 正文
 
-正文按节拆成 30 个文件放在 [book/](book/)，点上面目录里的节名进入。拆开是因为单文件已经超过 GitHub 渲染 Markdown 的 512 KB 上限，后面的节显示不出来；[在线检索页](https://eternity4719.github.io/HowToLiveBetter/)会把这些文件合起来读，用法不变。
+正文按节拆成 32 个文件放在 [book/](book/)，点上面目录里的节名进入。拆开是因为单文件已经超过 GitHub 渲染 Markdown 的 512 KB 上限，后面的节显示不出来；[在线检索页](https://eternity4719.github.io/HowToLiveBetter/)会把这些文件合起来读，用法不变。
 
 ## Star 走势
 

diff --git a/CLAUDE.md b/CLAUDE.md
@@ -81,6 +81,8 @@
 30. 上学以后的孩子（补 3 到 18 岁这段：按小时算的急症与睾丸扭转的时间曲线、别为了考试推迟有窗口的治疗（脊柱侧弯支具）、校园欺凌的证据与学校必须走的认定程序、每天户外 2 小时防近视、每年学生体检的重点项与异常项随访、12 到 18 岁抑郁筛查与学校心理测评的区别、「治愈近视」是违法营销表述、睡眠作业体育排名的明文规定、休学保留学籍最长 1 年、散瞳验光与复查间隔、窝沟封闭。口径以死亡率与健康终点为主，近视产品那条是金钱，作息与休学两条是时间。新生儿见第 20 节，养孩子的账见第 18 节，溺水交通头盔与 HPV 见第 1 节，孩子被骗充值见第 5 节，急症识别见第 13 节，家长去世后的孩子见第 29 节，不重复）
 31. 十八岁之后有哪几条路（**定位是路径地图，不是当兵说明书**——2026-09-10 用户批评过初版把整节写成了当兵，当兵只是他举的例子，现在当兵占 5 条、其余 7 条写别的路。第 1 条对八条路的法定门槛：打工 16 岁、当兵 18 到 22/24/26 岁、考公 18 到 35 岁大专以上、消防员 18 到 22 岁高中以上（大专或退役士兵放宽到 24）、军队文职年满 18 岁较低职级上限 35 岁、事业单位公开招聘、个体户只要「有经营能力的公民」、自考不限年龄和已受教育程度但在校生不能报。当兵五条：兵役登记 10 月 31 日前网上办 + 义务兵两年、应征后拒服兵役的联合惩戒（只对第五十七条第一款第二项和入伍后被除名，单纯没登记不在其内）、学费补偿 20000/25000 与学籍保留两年和专项研究生计划、安置的六个条件 + 自主就业 30 日报到否则视为放弃、退役金与军龄工龄社保与创业扣税三笔账。其余七条：三支一扶等基层服务项目干满两年可报每年 10% 的定向考录、特岗教师三年期满入编、消防员与军队文职、自考成人高考开放大学的学历补救、灵活就业的社保自缴与户籍放开、骑手的职业伤害保障由平台按单缴。口径是金钱与时间，拒服兵役那条兼及人身自由。读书还是打工见第 23 节，加班费工伤离职补偿见第 19 节，开店办公司见第 12 节，失业兜底见第 7 节，不重复。注意《退役士兵安置条例》608 号已于 2024-09-01 废止，现行是《退役军人安置条例》787 号；学费补偿现行标准是 20000/25000，网上流传的 8000/12000 和 16000/20000 都是旧值；《公务员录用规定》里没有定向考录条款，定向考录的依据是中办国办 2017 年那份基层工作意见和人社部发〔2021〕32 号）
 
+32. 出国留学：身份、打工、保险和回国认证（交学费前查留服中心认证院校名单、美国 2026-09-15 起的固定入境期限与读完 30 天离境窗口（旧的「60 天宽限期」已废）、美加英澳四国打工时数上限（美 20 小时/周、英学位 20 小时学位以下 10 小时、加 24 小时/周、澳 48 小时/两周）、全日制在读是打工资格的根、美国搬家 10 日内报 USCIS、教育部留学预警、澳大利亚 OSHC 全程不断、英国签证费与每年 776 英镑医疗附加费、留服认证 10 到 20 个工作日、被加强审查的院校名单。口径是金钱与人身自由。境外人身安全与 12308 见第 21 节，读书还是打工见第 23 节，不重复。**各国留学政策变动频繁，正文写明截至日期并让读者自查，不长期维护具体数字**）
+
 ## 写作规则
 - 简体中文，不用繁体
 - 语气克制，不说教，不用感叹号
